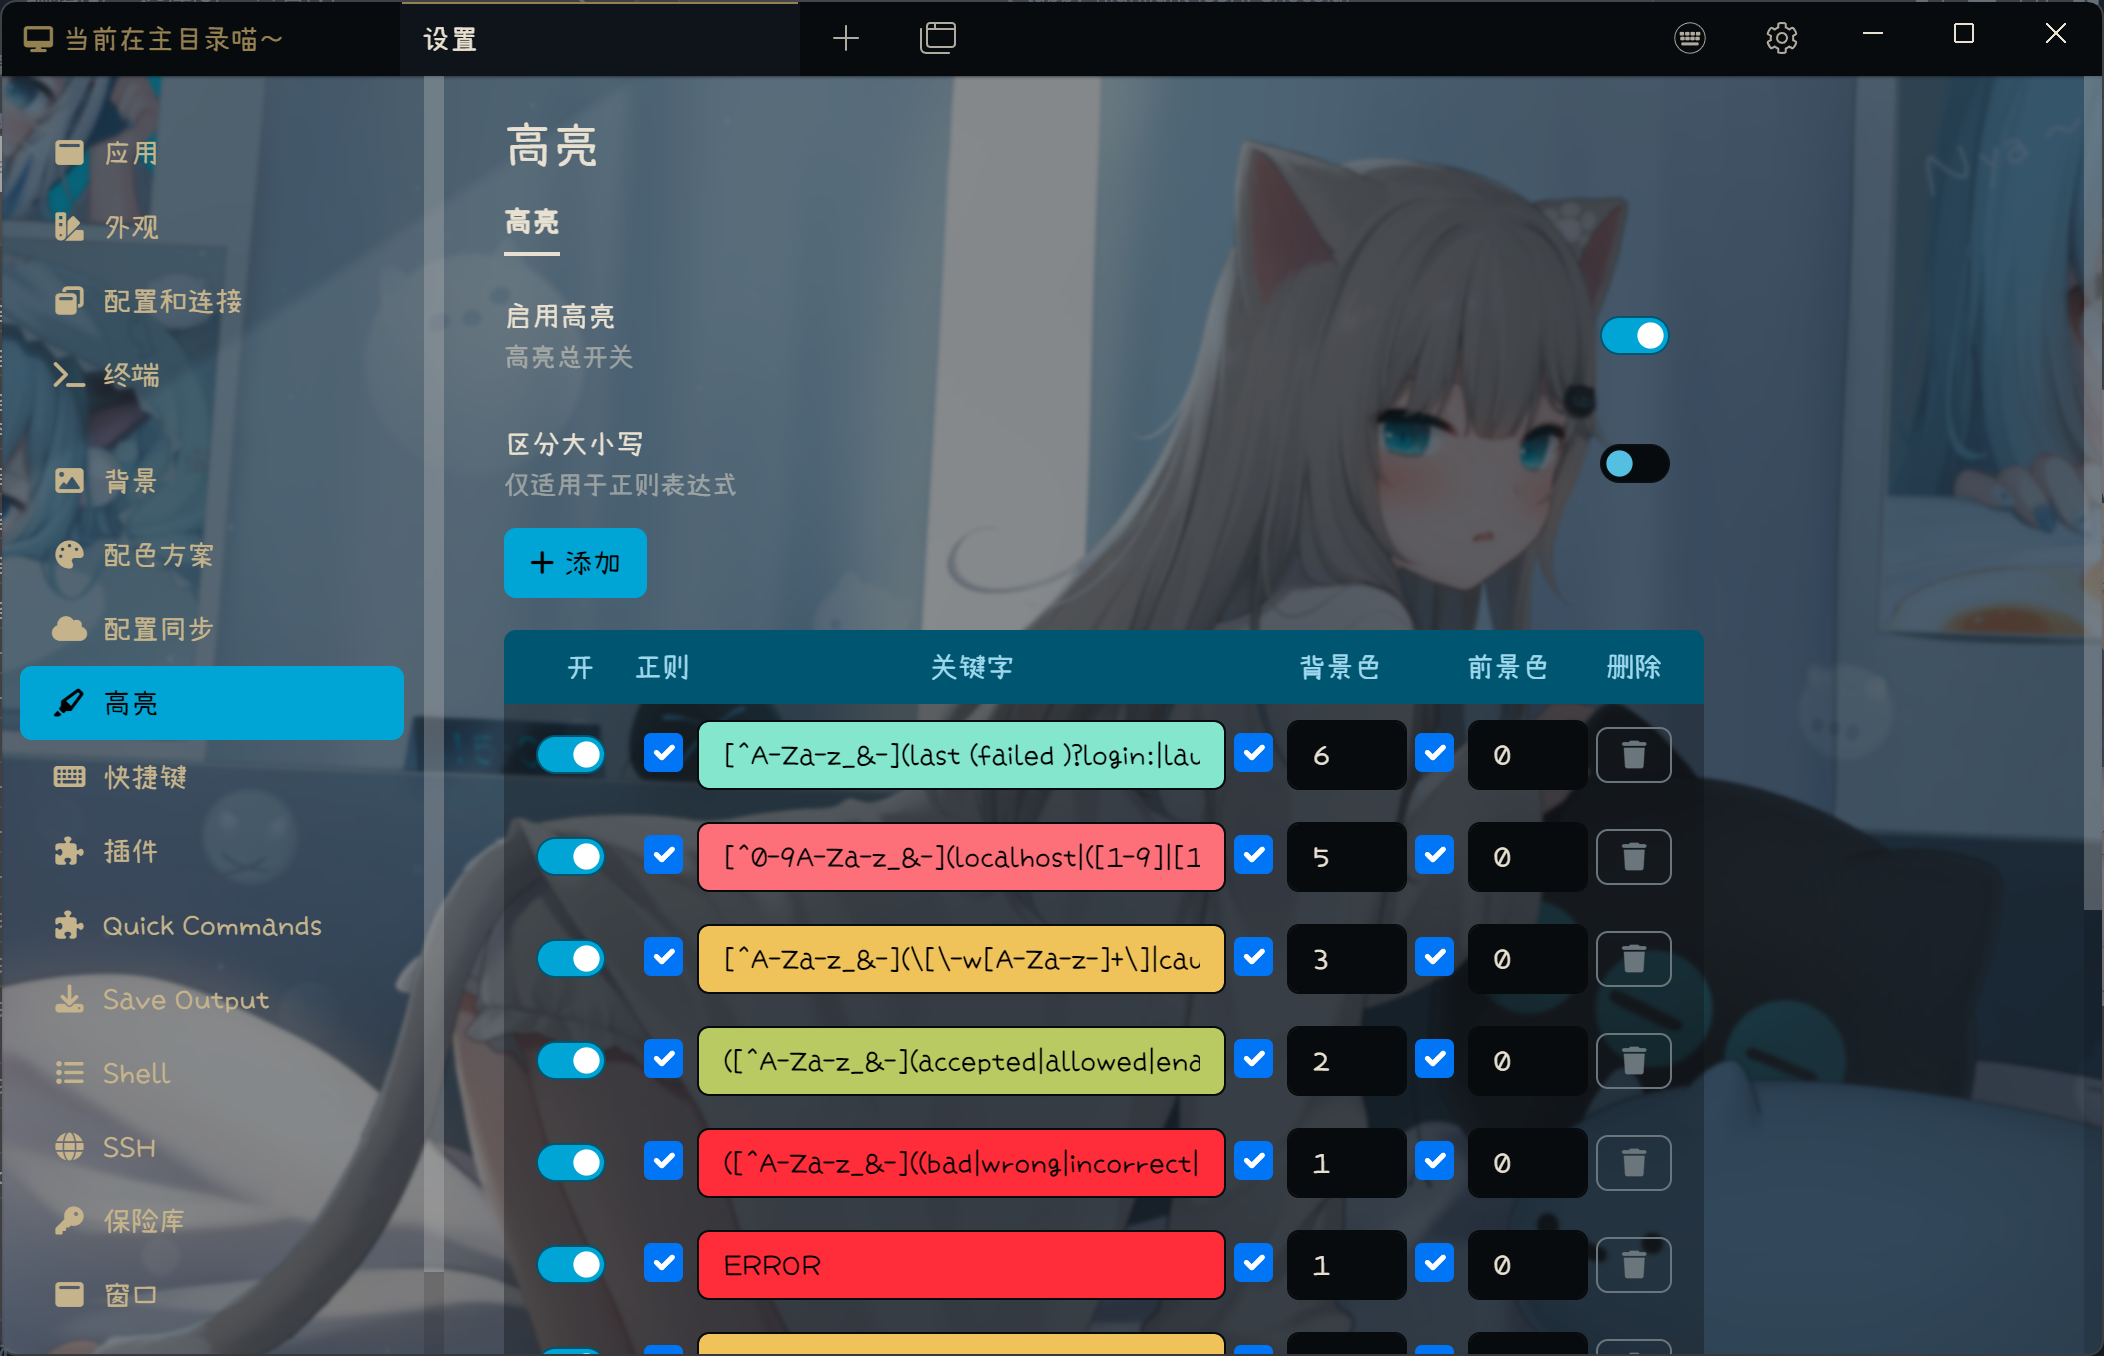
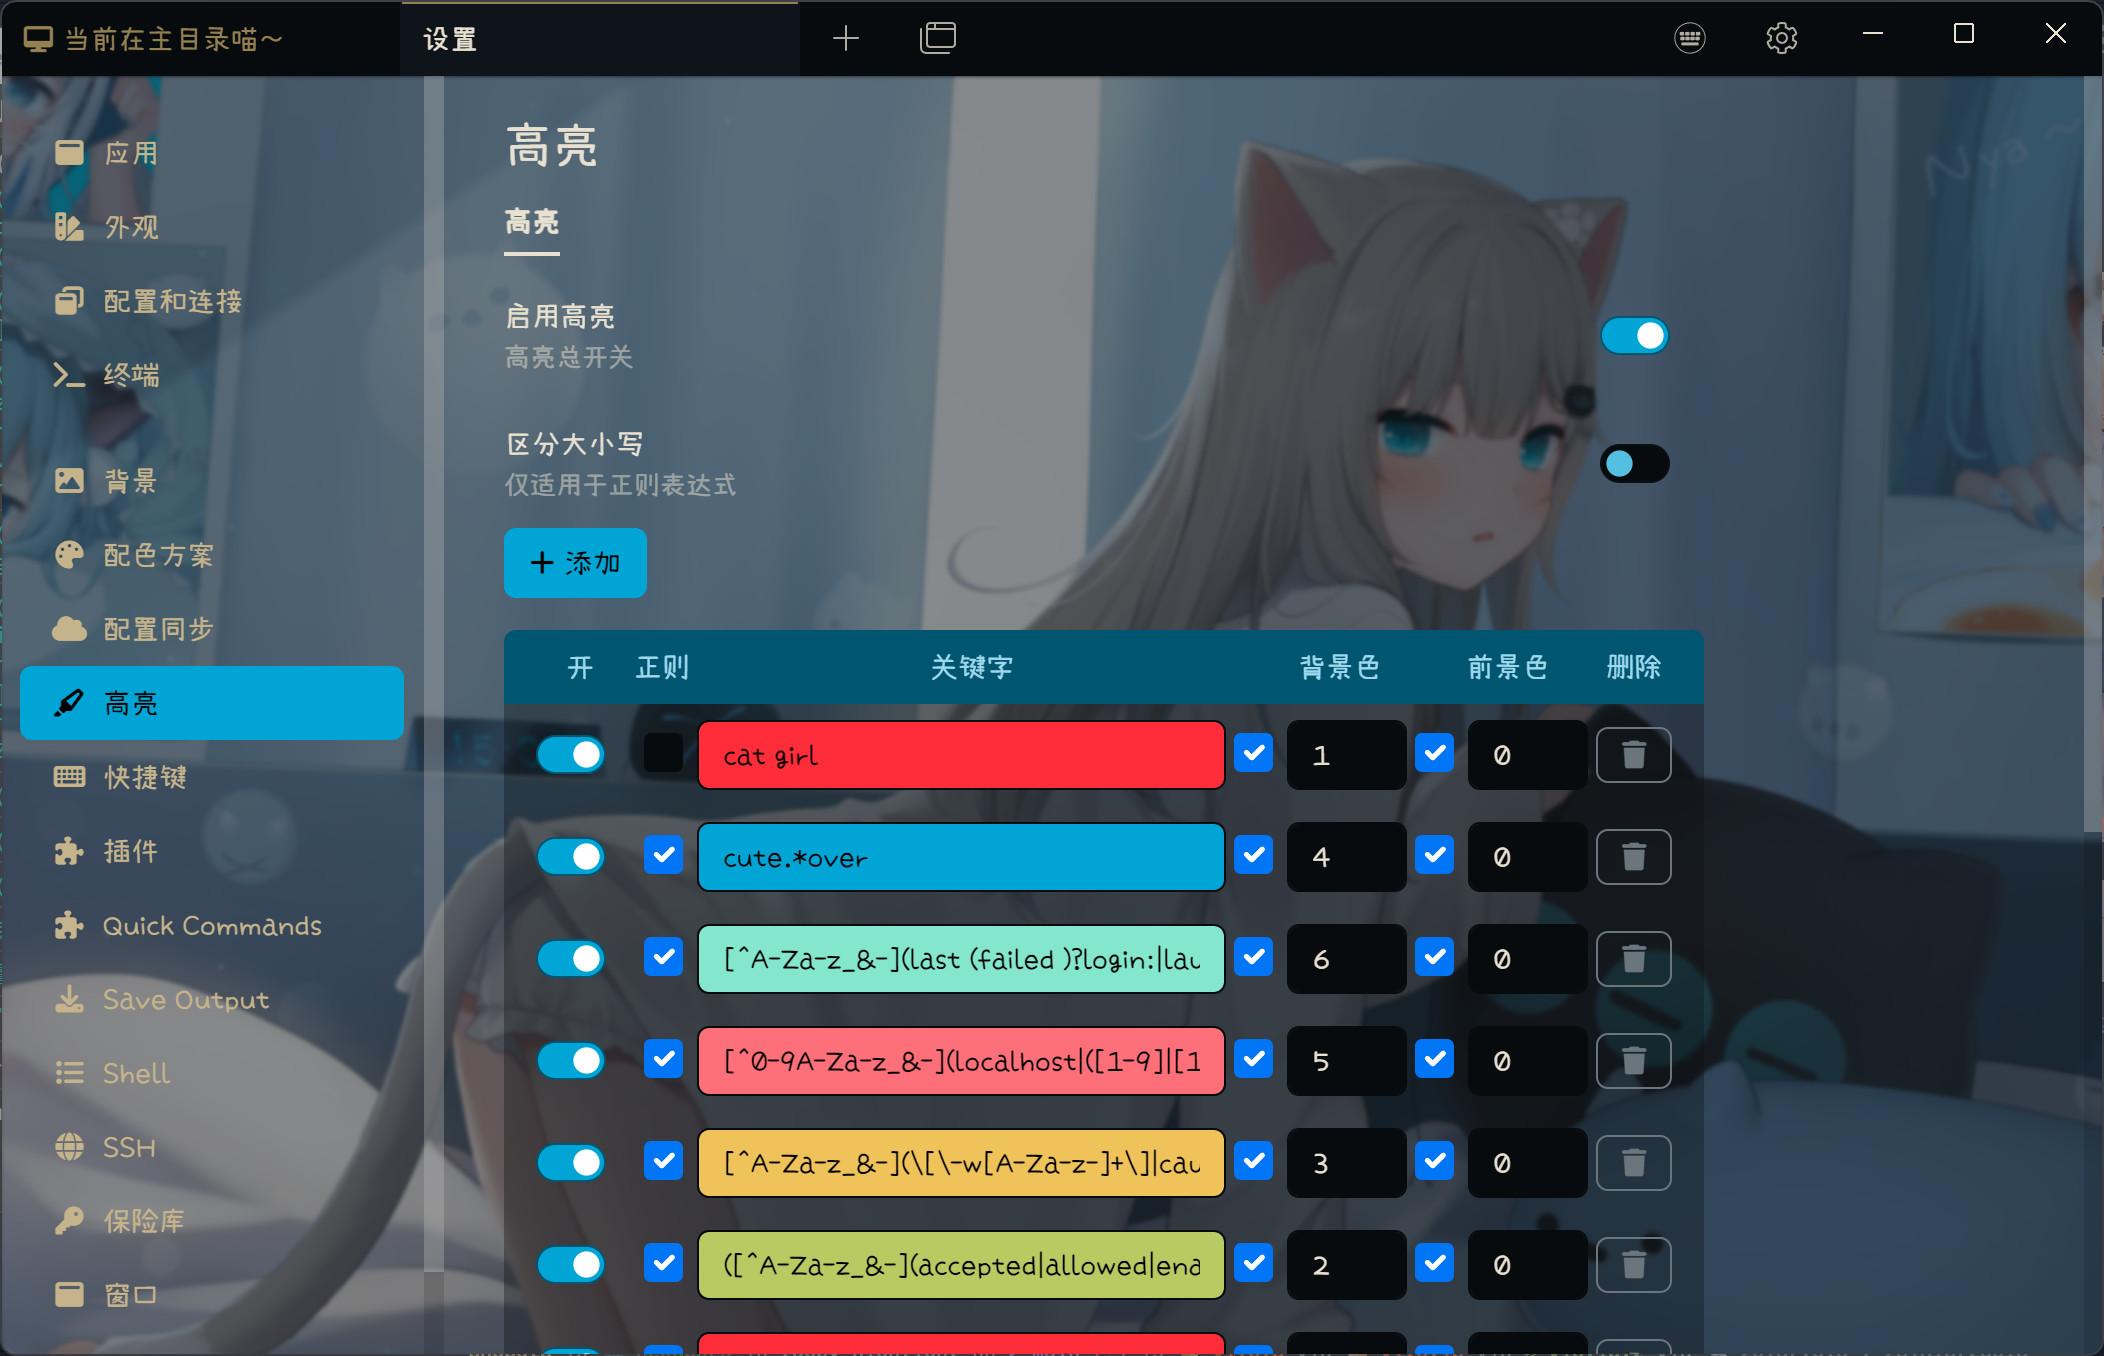
refectory highlight method.

Changed region(s): [[0.3089, 0.5265, 0.587, 1.0], [0.9886, 0.5885, 1.0, 0.6814]]

diff --git a/src/highlight.middleware.ts b/src/highlight.middleware.ts
@@ -2,44 +2,6 @@ import { Logger } from "tabby-core";
 import { BaseTerminalTabComponent, SessionMiddleware } from "tabby-terminal";
 import { HighlightPluginConfig } from "./configProvider";
 
-// code by chatGPT >w<
-function replaceCharacter(
-  inputString: string,
-  characterToReplace: string | RegExp,
-  replacementCharacter: string
-) {
-  // 匹配控制序列的正则表达式模式
-  const controlSequencePattern = /\x1b\[[0-9;]*[a-zA-Z]/g;
-
-  // 匹配OSC序列的正则表达式模式
-  const oscSequencePattern = /\x1b\](?:[^\x07\x1b]*|\x1b(?:[^[\x07]|$))*[\x07\x1b]/g;
-
-  // 从输入字符串中提取控制序列和OSC序列
-  const controlSequences = inputString.match(controlSequencePattern);
-  const oscSequences = inputString.match(oscSequencePattern);
-
-  // 临时替换控制序列和OSC序列
-  let tempString = inputString.replace(controlSequencePattern, "__CONTROL_SEQUENCE__");
-  tempString = tempString.replace(oscSequencePattern, "__OSC_SEQUENCE__");
-
-  // 替换指定字符
-  let replacedString = tempString.replaceAll(characterToReplace, replacementCharacter);
-
-  // 还原控制序列和OSC序列
-  if (controlSequences) {
-    for (let i = 0; i < controlSequences.length; i++) {
-      replacedString = replacedString.replace("__CONTROL_SEQUENCE__", controlSequences[i]);
-    }
-  }
-  if (oscSequences) {
-    for (let j = 0; j < oscSequences.length; j++) {
-      replacedString = replacedString.replace("__OSC_SEQUENCE__", oscSequences[j]);
-    }
-  }
-
-  return replacedString;
-}
-
 export default class HighlightMiddleware extends SessionMiddleware {
   tab: BaseTerminalTabComponent<any>;
   config: HighlightPluginConfig;
@@ -62,7 +24,26 @@ export default class HighlightMiddleware extends SessionMiddleware {
   feedFromSession(data: Buffer): void {
     const { highlightCaseSensitive, highlightKeywords } = this.config;
     let dataString = data.toString();
-    // console.log([dataString]);
+
+    // 匹配控制序列的正则表达式模式
+    const controlSequencePattern = /\x1b\[[0-9;]*[a-zA-Z]/g;
+    const controlSequenceReplace = "__CCCOOONNN_SSSEEEQQQ__";
+
+    // 匹配OSC序列的正则表达式模式
+    const oscSequencePattern = /\x1b\](?:[^\x07\x1b]*|\x1b(?:[^[\x07]|$))*[\x07\x1b]/g;
+    const oscSequenceReplace = "__OOOSSSCCC_SSSEEEQQQ__";
+
+    const endSeq = "\x1b[0m";
+
+    // 从输入字符串中提取控制序列和OSC序列
+    const controlSequences = dataString.match(controlSequencePattern);
+    const oscSequences = dataString.match(oscSequencePattern);
+
+    // 临时替换控制序列和OSC序列
+    let tempString = dataString.replace(controlSequencePattern, controlSequenceReplace);
+    tempString = tempString.replace(oscSequencePattern, oscSequenceReplace);
+
+    const occurrences: { start: number; end: number; fg?: number; bg?: number }[] = [];
     for (const keyword of highlightKeywords) {
       const {
         text,
@@ -77,38 +58,65 @@ export default class HighlightMiddleware extends SessionMiddleware {
       if (!enabled) {
         continue;
       }
-      const seq: string[] = [];
 
-      if (foreground) {
-        seq.push(`38;5;${foregroundColor}`);
-      }
-      if (background) {
-        seq.push(`48;5;${backgroundColor}`);
-      }
-      if (bold) {
-        seq.push(`5`);
-      }
-      if (seq.length === 0) {
-        continue;
-      }
+      // const matches = [];
 
-      try {
-        let characterToReplace = isRegExp
-          ? new RegExp(`(${text})`, `g${highlightCaseSensitive ? "" : "i"}`)
-          : text;
-        let replacementCharacter = isRegExp
-          ? `\x1b[${seq.join(";")}m$1\x1b[0m`
-          : `\x1b[${seq.join(";")}m${text}\x1b[0m`;
-        // dataString = dataString.replaceAll(text, `\x1b[${seq.join(";")}m${text}\x1b[0m`);
-        dataString = replaceCharacter(dataString, characterToReplace, replacementCharacter);
-      } catch (e) {
-        this.logger.error(e.message);
-        this.toast("[Highlight] Something wrong in creating RegExp, please view logs at DevTool");
+      const pattern = isRegExp
+        ? new RegExp(`(${text})`, `g${highlightCaseSensitive ? "" : "i"}`)
+        : new RegExp(
+            text.replace(/[.*+?^${}()|[\]\\]/g, "\\$&"),
+            `g${highlightCaseSensitive ? "" : "i"}`
+          );
+
+      const matches = tempString.matchAll(pattern);
+
+      for (const match of matches) {
+        occurrences.push({
+          start: match.index,
+          end: match.index + match[0].length - 1,
+          fg: foreground ? foregroundColor : undefined,
+          bg: background ? backgroundColor : undefined,
+        });
       }
     }
 
-    // console.log([dataString]);
-    data = Buffer.from(dataString);
+    let newDataString = "";
+    for (let i = 0; i < tempString.length; i++) {
+      let char = tempString[i];
+      for (const occurrence of occurrences) {
+        const { start, end, bg, fg } = occurrence;
+        if (i >= start && i <= end) {
+          const seq: string[] = [];
+          if (fg) {
+            seq.push(`38;5;${fg}`);
+          }
+          if (bg) {
+            seq.push(`48;5;${bg}`);
+          }
+          // if (bold) {
+          //   seq.push(`5`);
+          // }
+          char = `\x1b[${seq.join(";")}m${char}${endSeq}`;
+          break;
+        }
+      }
+
+      newDataString += char;
+    }
+
+    // 还原控制序列和OSC序列
+    if (controlSequences) {
+      for (let i = 0; i < controlSequences.length; i++) {
+        newDataString = newDataString.replace(controlSequenceReplace, controlSequences[i]);
+      }
+    }
+    if (oscSequences) {
+      for (let j = 0; j < oscSequences.length; j++) {
+        newDataString = newDataString.replace(oscSequenceReplace, oscSequences[j]);
+      }
+    }
+
+    data = Buffer.from(newDataString);
     super.feedFromSession(data);
   }
 

diff --git a/README.md b/README.md
@@ -25,9 +25,9 @@ To install, use Tabby builtin plugin manager.
 
 Drag the ON switch will make the keyword draggable.
 
-### Limitation
+### Priority
 
-There are some in the highlight method based on Xterm control sequence, if two or more keyword matches one text, the color may be vary.
+Keyword on top get high priority.
 
 ### Warning
 
@@ -47,6 +47,7 @@ There are some in the highlight method based on Xterm control sequence, if two o
 
 ## Changelog
 
+- 1.0.9: Refectory highlight method, fix nest keyword match, possible downgrade performance(> <).
 - 1.0.8: Support keywords priority adjustment.
 - 1.0.7: Support background and foreground highlight switch separately.
 - 1.0.6: Add error logs.
